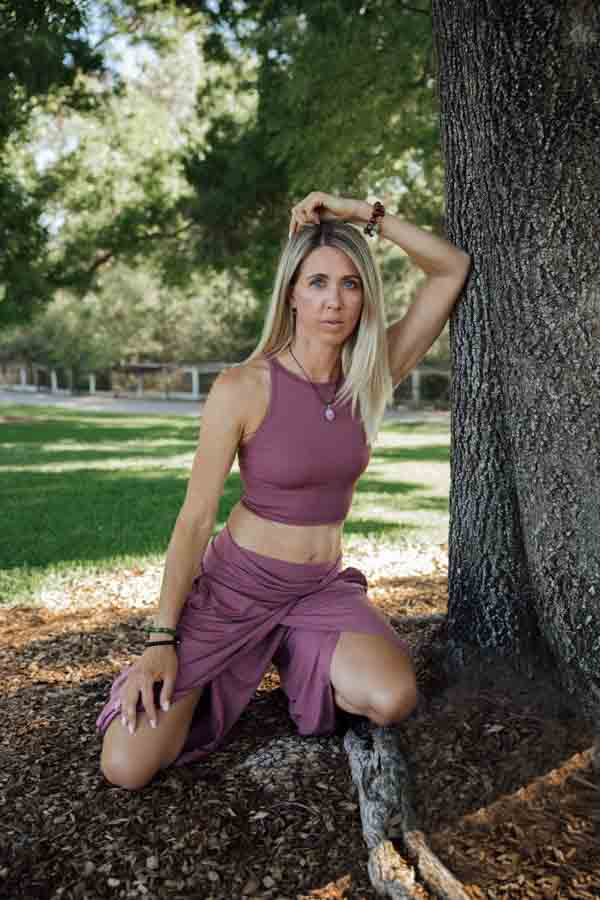
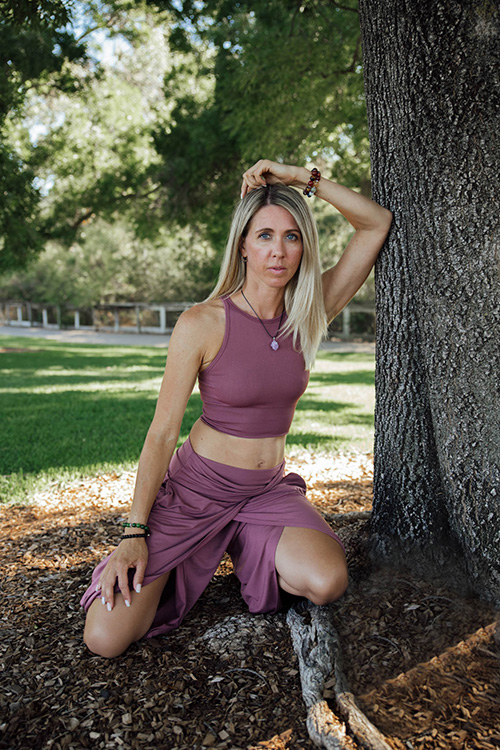
thumbnails change

diff --git a/_layouts/default.html b/_layouts/default.html
@@ -14,8 +14,6 @@
     <link rel="stylesheet" href="/fonts/icomoon/style.css">
     <link rel="stylesheet" href="/css/bootstrap.min.css">
     <link rel="stylesheet" href="/css/jquery-ui.css">
-    <link rel="stylesheet" href="/css/owl.carousel.min.css">
-    <link rel="stylesheet" href="/css/owl.theme.default.min.css">
     <link rel="stylesheet" href="//cdnjs.cloudflare.com/ajax/libs/fancybox/3.5.7/jquery.fancybox.min.css" />
     <link rel="stylesheet" href="/fonts/flaticon/font/flaticon.css">
     <link rel="stylesheet" href="/css/swiper.css">
@@ -135,7 +133,6 @@
     <script src="/js/jquery-ui.js"></script>
     <script src="/js/popper.min.js"></script>
     <script src="/js/bootstrap.min.js"></script>
-    <script src="/js/owl.carousel.min.js"></script>
     <script src="/js/jquery.stellar.min.js"></script>
     <script src="/js/swiper.min.js"></script>
     <script src="/js/jquery.mousewheel.min.js"></script>

diff --git a/_albums/wedding.html b/_albums/wedding.html
@@ -1,8 +1,8 @@
 ---
 layout: album
 title: Wedding Day
-thumbnail: IMG_0201.jpg
-order_number: 2
+thumbnail: IMG_0188-th.jpg
+order_number: 4
 images:
   - IMG_0094-2.jpg
   - IMG_0201.jpg

diff --git a/_albums/love_story.html b/_albums/love_story.html
@@ -1,8 +1,8 @@
 ---
 layout: album
 title: Love Story
-order_number: 6
-thumbnail: IMG_1474.jpg
+order_number: 2
+thumbnail: IMG_1474-th.jpg
 images:
   - IMG_1474.jpg
   - IMG_0056.jpg

diff --git a/_albums/lifestyle.html b/_albums/lifestyle.html
@@ -2,7 +2,7 @@
 layout: album
 title: Lifestyle
 order_number: 4
-thumbnail: IMG_0046.jpg
+thumbnail: IMG_1052-r-th.jpg
 images:
   - IMG_0974.jpg
   - IMG_0730.jpg

diff --git a/_albums/maternity.html b/_albums/maternity.html
@@ -2,7 +2,7 @@
 layout: album
 title: Maternity
 order_number: 3
-thumbnail: IMG_0259.jpg
+thumbnail: IMG_0717-th.jpg
 images:
   - IMG_0586.jpg
   - IMG_0259.jpg

diff --git a/_albums/portrait.html b/_albums/portrait.html
@@ -2,7 +2,7 @@
 layout: album
 title: Portrait
 order_number: 5
-thumbnail: IMG_0228.jpg
+thumbnail: IMG_0228-th.jpg
 images:
   - IMG_0359.jpg
   - IMG_0806.jpg

diff --git a/_albums/family.html b/_albums/family.html
@@ -2,7 +2,7 @@
 layout: album
 title: Family
 order_number: 1
-thumbnail: IMG_0681.jpg
+thumbnail: IMG_0681-th.jpg
 images:
   - IMG_0064.jpg
   - IMG_0020.jpg
